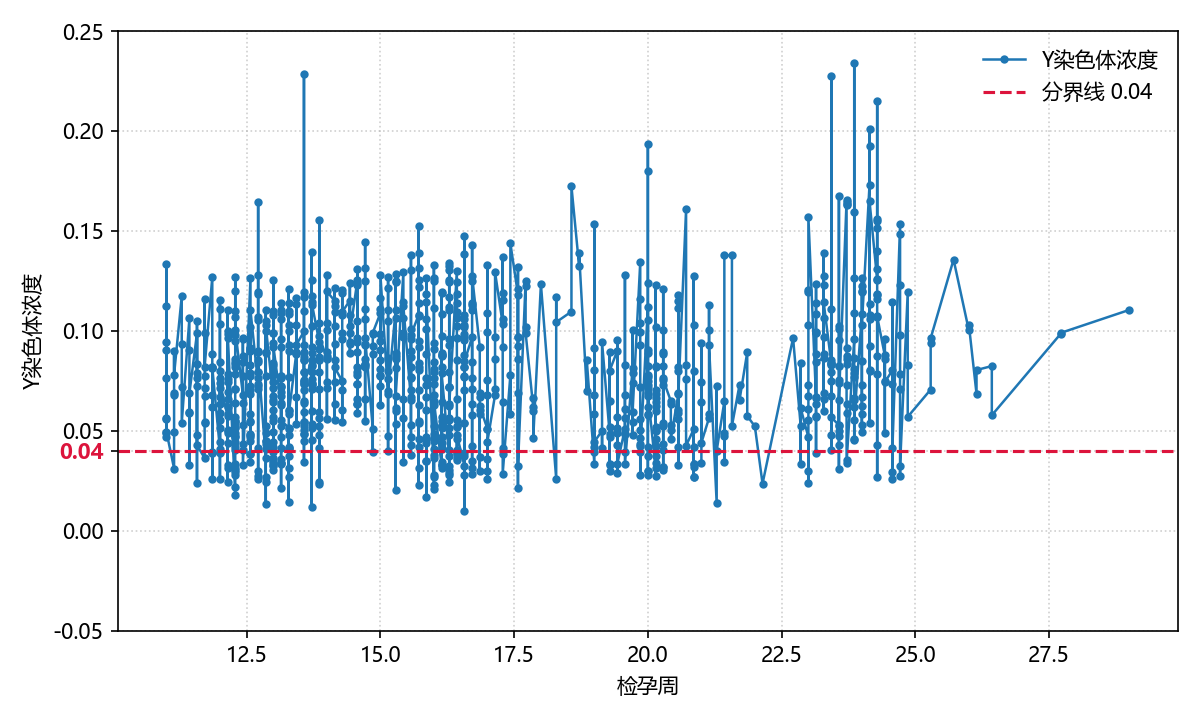
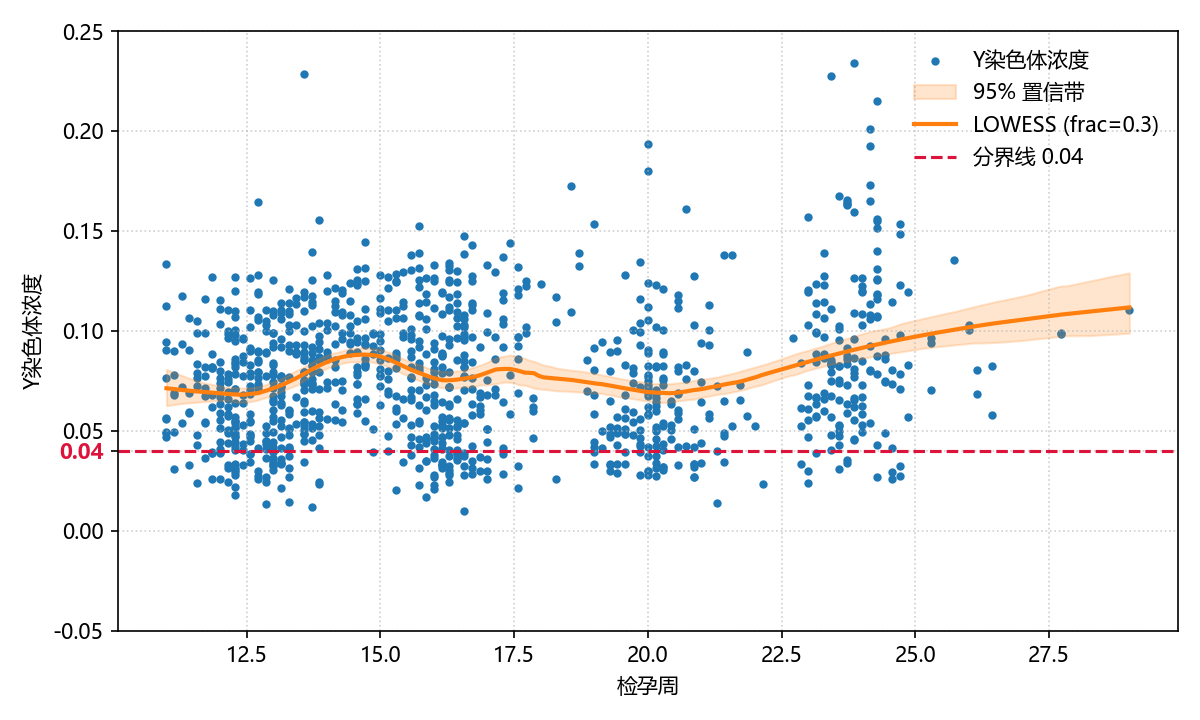
feat:添加Lowess曲线和95%置信带

Changed region(s): [[0.1233, 0.0611, 0.9867, 0.6722], [0.2158, 0.6111, 0.2775, 0.7028]]

diff --git a/code/plot_y_vs_week.py b/code/plot_y_vs_week.py
@@ -52,12 +52,10 @@ def main():
 
     # Plot
     fig, ax = plt.subplots(figsize=(8, 4.8), dpi=150)
-    ax.plot(
+    ax.scatter(
         data["week"],
         data["y"],
-        marker="o",
-        markersize=3,
-        linewidth=1.2,
+        s=9,  # approximately markersize=3**2
         color="#1f77b4",
         label="Y染色体浓度",
     )
@@ -65,6 +63,38 @@ def main():
     ax.set_xlabel("检孕周")
     ax.set_ylabel("Y染色体浓度")
     # 不设置标题，按需仅显示坐标轴与图例
+
+    # LOWESS 趋势线 + 95%置信带（若安装了 statsmodels）
+    try:
+        from statsmodels.nonparametric.smoothers_lowess import lowess
+
+        def lowess_with_ci(xv, yv, frac=0.3, it=0, grid=None, n_boot=200, seed=42):
+            xv = np.asarray(xv, dtype=float)
+            yv = np.asarray(yv, dtype=float)
+            if grid is None:
+                grid = np.linspace(np.nanmin(xv), np.nanmax(xv), 200)
+            base = lowess(yv, xv, frac=frac, it=it, return_sorted=True)
+            y_base = np.interp(grid, base[:, 0], base[:, 1])
+            rng = np.random.default_rng(seed)
+            preds = np.empty((n_boot, grid.size), dtype=float)
+            n = xv.size
+            for b in range(n_boot):
+                idx = rng.integers(0, n, size=n)
+                xb, yb = xv[idx], yv[idx]
+                boot = lowess(yb, xb, frac=frac, it=it, return_sorted=True)
+                preds[b] = np.interp(grid, boot[:, 0], boot[:, 1])
+            lower = np.percentile(preds, 2.5, axis=0)
+            upper = np.percentile(preds, 97.5, axis=0)
+            return grid, y_base, lower, upper
+
+        frac = 0.3  # 平滑窗口比例(0~1)，可按需要调整
+        xn = data["week"].to_numpy(dtype=float)
+        yn = data["y"].to_numpy(dtype=float)
+        grid, y_hat, y_lo, y_hi = lowess_with_ci(xn, yn, frac=frac, it=0, n_boot=200, seed=42)
+        ax.fill_between(grid, y_lo, y_hi, color="#ff7f0e", alpha=0.2, label="95% 置信带")
+        ax.plot(grid, y_hat, color="#ff7f0e", linewidth=2.0, label=f"LOWESS (frac={frac})")
+    except Exception:
+        print("未能绘制LOWESS趋势线/置信带，请先安装 statsmodels：pip install statsmodels")
 
     # Emphasize y=0.04 boundary
     boundary = 0.04

diff --git a/code/plot_y_vs_bmi_scatter.py b/code/plot_y_vs_bmi_scatter.py
@@ -62,6 +62,40 @@ def main():
     ax.set_ylabel("Y染色体浓度")
     # 不设置标题，按需仅显示坐标轴与图例
 
+    # LOWESS 趋势线 + 95%置信带（若安装了 statsmodels）
+    try:
+        from statsmodels.nonparametric.smoothers_lowess import lowess
+
+        def lowess_with_ci(xv, yv, frac=0.3, it=0, grid=None, n_boot=200, seed=42):
+            xv = np.asarray(xv, dtype=float)
+            yv = np.asarray(yv, dtype=float)
+            if grid is None:
+                grid = np.linspace(np.nanmin(xv), np.nanmax(xv), 200)
+            # 中心曲线（基于全体样本）
+            base = lowess(yv, xv, frac=frac, it=it, return_sorted=True)
+            y_base = np.interp(grid, base[:, 0], base[:, 1])
+            # 自助法估计置信区间
+            rng = np.random.default_rng(seed)
+            preds = np.empty((n_boot, grid.size), dtype=float)
+            n = xv.size
+            for b in range(n_boot):
+                idx = rng.integers(0, n, size=n)
+                xb, yb = xv[idx], yv[idx]
+                boot = lowess(yb, xb, frac=frac, it=it, return_sorted=True)
+                preds[b] = np.interp(grid, boot[:, 0], boot[:, 1])
+            lower = np.percentile(preds, 2.5, axis=0)
+            upper = np.percentile(preds, 97.5, axis=0)
+            return grid, y_base, lower, upper
+
+        frac = 0.3  # 平滑窗口比例(0~1)，可根据数据调整
+        xn = np.asarray(x, dtype=float)
+        yn = np.asarray(y, dtype=float)
+        grid, y_hat, y_lo, y_hi = lowess_with_ci(xn, yn, frac=frac, it=0, n_boot=200, seed=42)
+        ax.fill_between(grid, y_lo, y_hi, color="#ff7f0e", alpha=0.2, label="95% 置信带")
+        ax.plot(grid, y_hat, color="#ff7f0e", linewidth=2.0, label=f"LOWESS (frac={frac})")
+    except Exception:
+        print("未能绘制LOWESS趋势线/置信带，请先安装 statsmodels：pip install statsmodels")
+
     # Emphasize y=0.04 boundary
     boundary = 0.04
     ax.axhline(boundary, color="crimson", linestyle="--", linewidth=1.5, label="分界线 0.04")
